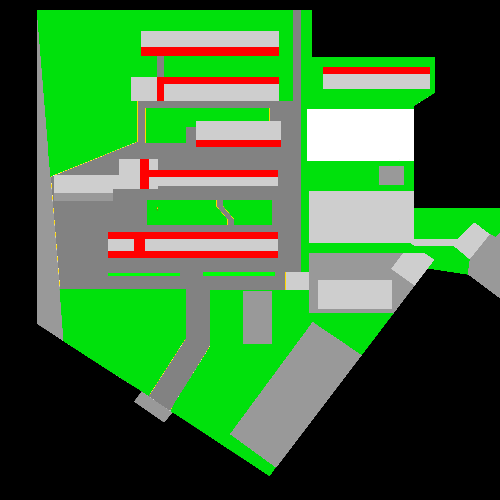
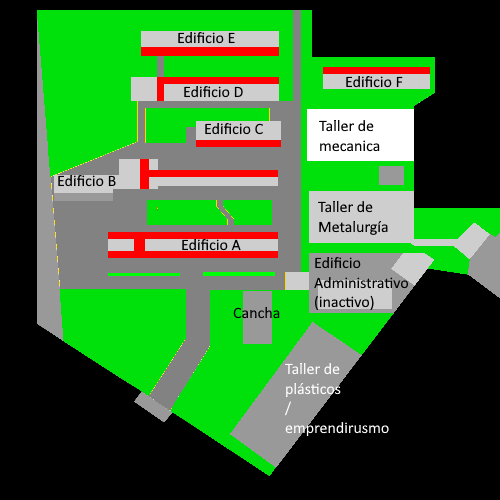
Actualización: mapa
Ahora ya no es algo de lo que avergonzarse
-actualizado el dialogo de eki al inicio diciendo que estaba en el taller de mecanica

diff --git a/scr/escenas/Funciones/verMapa.js b/scr/escenas/Funciones/verMapa.js
@@ -4,28 +4,8 @@ export default class verMapa extends Phaser.Scene{
     }
 
     create(){
-        this.cameras.main.setBounds(0,0,2000,2000);
-        this.cameras.main.setZoom(.25);
-        //this.add.text(0,0,'Si ves esto, cierra el mapa y abrelo de nuevo\nNo se porqué sucede :(',{fontSize: '200px',color: '#fff'}).setVisible(false)
-        var mapa = this.add.image(1000,1000, 'polimapa').setScale(0);
+        var mapa = this.add.image(250,250, 'minipolimapa').setScale(0);
         //esta madre se puede simplificar si simplemente diseñamos una imagen
-        var pasillos = this.add.group([
-            //pasillos del A
-            this.add.rectangle(536, 927, 55, 104, 0x00ffff).setOrigin(0,0),
-            this.add.rectangle(591, 927, 521, 28, 0x00ffff).setOrigin(0,0),
-            this.add.rectangle(591, 1003, 521, 28, 0x00ffff).setOrigin(0,0),
-            //Pasillos del B
-            this.add.rectangle(537,638,45,119,0x00ffff).setOrigin(0,0),
-            this.add.rectangle(583,682,529,24,0x00ffff).setOrigin(0,0),
-            //Pasillo del C
-            this.add.rectangle(785,560, 339, 27, 0x00ffff).setOrigin(0,0),
-            //Pasillos del D
-            this.add.rectangle(630,307,27,94,0x00ffff).setOrigin(0,0),
-            this.add.rectangle(658,307,458,28,0x00ffff).setOrigin(0,0),
-            //Pasillos del E
-            this.add.rectangle(566,189,551,34,0x00ffff).setOrigin(0,0),
-        ],{visible: false});
-
         this.events.on('transitionstart', (fromScene, duration)=>{
             this.tweens.add({
                 targets: mapa,
@@ -35,12 +15,7 @@ export default class verMapa extends Phaser.Scene{
             });
         });
 
-        this.events.on('transitioncomplete', ()=>{
-            pasillos.setVisible(true);
-        });
-
         this.events.on('transitionout', (toScene, duration)=>{
-            pasillos.setVisible(false);
             this.tweens.add({
                 targets:mapa,
                 scaleX:0,

diff --git a/scr/pantallaDeCarga.js b/scr/pantallaDeCarga.js
@@ -38,6 +38,7 @@ export default class pantallaDeCarga extends Phaser.Scene{
         //aquí se cargarán assets del mundo (objetos, BG, ambiente, etc)
         this.load.image("polimapa", "./assets/overworld/mapa.png");
         this.load.image('polimapaOverlay', './assets/overworld/mapa-overlay.png');
+        this.load.image('minipolimapa', './assets/overworld/miniMapa.png')
         //this.load.image('polibg', './assets/overworld/edificios/poliprueba.JPG');
         this.load.image('salonbg', './assets/overworld/edificios/salon.png');
         this.load.image('silla', './assets/overworld/edificios/silla.png');
